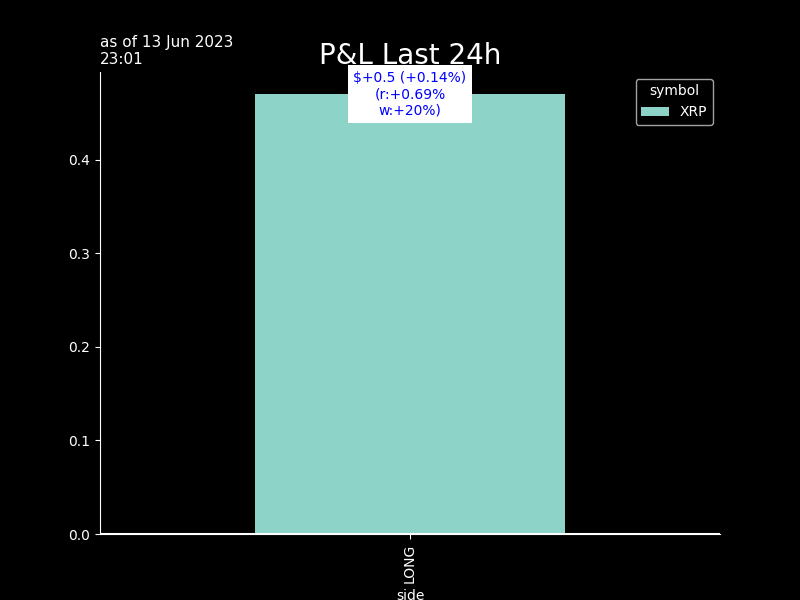
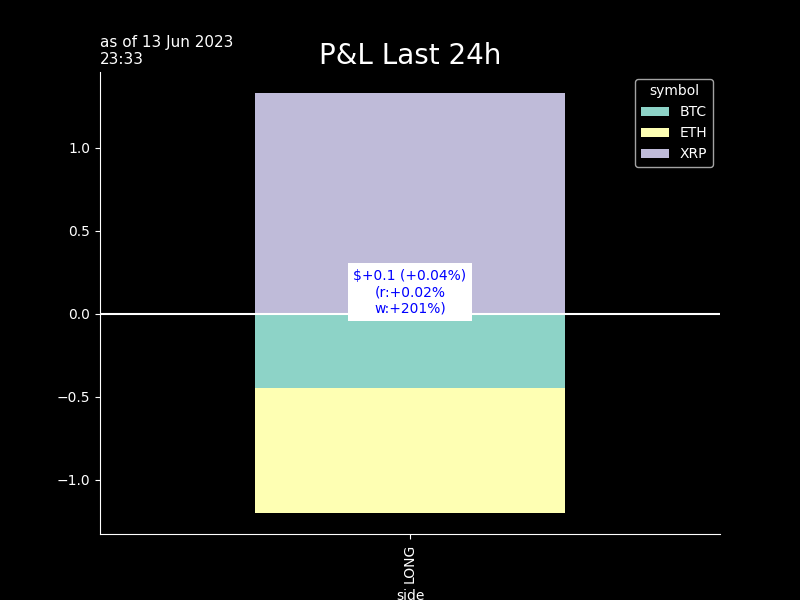
seb_commit

diff --git a/crypto/graphs/bt_trades_book.htmltrade_trades_book.html b/crypto/graphs/bt_trades_book.htmltrade_trades_book.html
@@ -37,55 +37,55 @@
   </thead>
   <tbody>
     <tr>
-      <th>ETHUSDT</th>
-      <td>1741.8000</td>
-      <td>2023-06-13 18:33:16</td>
-      <td>0.098</td>
-      <td>$170.7</td>
-      <td>$0.07</td>
-      <td>4.0</td>
+      <th>BTCUSDT</th>
+      <td>25817.3000</td>
+      <td>2023-06-13 22:33:10</td>
+      <td>-0.009</td>
+      <td>$-232.4</td>
+      <td>$0.04</td>
+      <td>1.6</td>
+      <td>-0.5</td>
+      <td>25817.05000</td>
+      <td>2023-06-13 23:31</td>
       <td>0.0</td>
-      <td>1742.61500</td>
-      <td>2023-06-13 19:31</td>
-      <td>0.1</td>
-      <td>5.0</td>
-      <td>1741.65</td>
+      <td>0.0</td>
+      <td>25820.</td>
       <td>-0.0</td>
       <td>-1.0</td>
     </tr>
     <tr>
       <th>XRPUSDT</th>
-      <td>0.5151</td>
-      <td>2023-06-13 18:32:23</td>
-      <td>331.800</td>
-      <td>$170.9</td>
+      <td>0.5177</td>
+      <td>2023-06-13 22:32:27</td>
+      <td>-414.800</td>
+      <td>$-214.7</td>
       <td>$0.03</td>
       <td>1.6</td>
-      <td>0.0</td>
-      <td>0.51525</td>
-      <td>2023-06-13 19:31</td>
+      <td>0.9</td>
+      <td>0.51745</td>
+      <td>2023-06-13 23:31</td>
       <td>0.1</td>
-      <td>3.0</td>
-      <td>.5149</td>
+      <td>5.0</td>
+      <td>.518</td>
       <td>-0.1</td>
-      <td>-4.0</td>
+      <td>-6.0</td>
     </tr>
     <tr>
-      <th>BTCUSDT</th>
-      <td>25881.9000</td>
-      <td>2023-06-13 18:33:11</td>
-      <td>0.007</td>
-      <td>$181.2</td>
+      <th>ETHUSDT</th>
+      <td>1734.1600</td>
+      <td>2023-06-13 22:33:10</td>
+      <td>-0.098</td>
+      <td>$-169.9</td>
       <td>$0.03</td>
       <td>1.6</td>
-      <td>0.0</td>
-      <td>25886.95000</td>
-      <td>2023-06-13 19:31</td>
-      <td>0.0</td>
-      <td>2.0</td>
-      <td>25876.6</td>
+      <td>-0.8</td>
+      <td>1734.16500</td>
+      <td>2023-06-13 23:31</td>
       <td>-0.0</td>
-      <td>-2.0</td>
+      <td>-0.0</td>
+      <td>1734.4</td>
+      <td>-0.0</td>
+      <td>-1.0</td>
     </tr>
   </tbody>
 </table>

diff --git a/crypto/graphs/bt_trades_recap.htmltrade_trades_recap.html b/crypto/graphs/bt_trades_recap.htmltrade_trades_recap.html
@@ -9,33 +9,33 @@
   <tbody>
     <tr>
       <th>as of</th>
-      <td>13Jun 18:32&gt;&gt;18:33</td>
+      <td>13Jun 22:32&gt;&gt;22:33</td>
       <td>#trades: 3</td>
     </tr>
     <tr>
       <th>trade net</th>
-      <td>+523.0</td>
-      <td>+153.0%</td>
+      <td>-617.0</td>
+      <td>-180.7%</td>
     </tr>
     <tr>
       <th>trade gross</th>
-      <td>+523.0</td>
-      <td>+153.0%</td>
+      <td>+617.0</td>
+      <td>+180.7%</td>
     </tr>
     <tr>
       <th>BUY</th>
-      <td>+523.0</td>
-      <td>+153.0%</td>
-    </tr>
-    <tr>
-      <th>SELL</th>
       <td>+0.0</td>
       <td>+0.0%</td>
     </tr>
     <tr>
+      <th>SELL</th>
+      <td>-617.0</td>
+      <td>-180.7%</td>
+    </tr>
+    <tr>
       <th>fees</th>
-      <td>$ 0.125</td>
-      <td>2.38bp</td>
+      <td>$ 0.099</td>
+      <td>1.6bp</td>
     </tr>
   </tbody>
 </table>

diff --git a/crypto/graphs/bt_trades_pnlD_recap.htmltrade_trades_pnlD_recap.html b/crypto/graphs/bt_trades_pnlD_recap.htmltrade_trades_pnlD_recap.html
@@ -1,7 +1,7 @@
 <table border="1" class="dataframe">
   <thead>
     <tr style="text-align: right;">
-      <th>13 Jun 19:33</th>
+      <th>13 Jun 23:33</th>
       <th>realizedPnl</th>
       <th>PnLvsArrival</th>
       <th>PnLvsLast</th>
@@ -10,21 +10,21 @@
   <tbody>
     <tr>
       <th>in$</th>
-      <td>0.0</td>
-      <td>0.2</td>
-      <td>-0.1</td>
+      <td>-0.3</td>
+      <td>0.1</td>
+      <td>-0.2</td>
     </tr>
     <tr>
-      <th>in bp 522 traded</th>
-      <td>0 bp</td>
-      <td>3 bp</td>
-      <td>-2 bp</td>
+      <th>in bp 617 traded</th>
+      <td>-6 bp</td>
+      <td>2 bp</td>
+      <td>-3 bp</td>
     </tr>
     <tr>
       <th>in bp 341 AUMs</th>
-      <td>0 bp</td>
-      <td>5 bp</td>
-      <td>-4 bp</td>
+      <td>-10 bp</td>
+      <td>3 bp</td>
+      <td>-5 bp</td>
     </tr>
   </tbody>
 </table>
